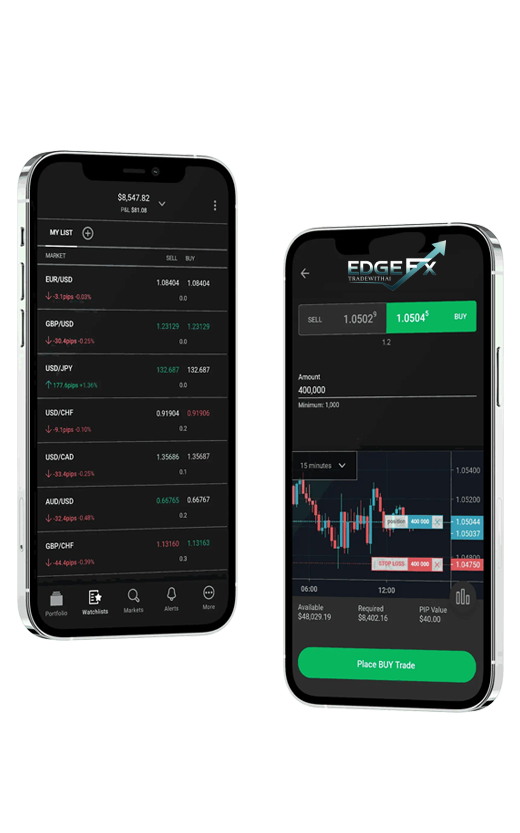
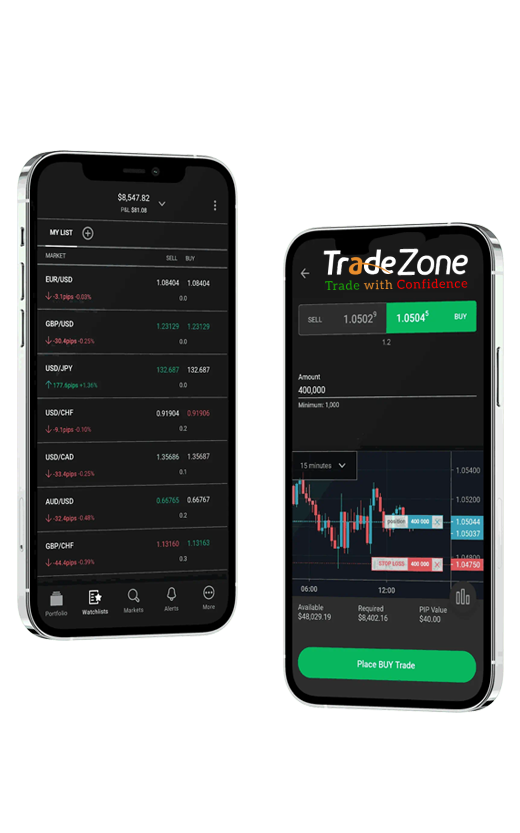
hhfgj

Changed region(s): [[0.6154, 0.2809, 0.8923, 0.3745]]

diff --git a/public/staticfiles/index.html b/public/staticfiles/index.html
@@ -5,7 +5,7 @@
     <meta charset="utf-8" />
     <meta http-equiv="X-UA-Compatible" content="IE=edge" />
     <meta name="viewport" content="width=device-width, initial-scale=1.0, maximum-scale=1.0, user-scalable=0" />
-    <title>Edge FX</title>
+    <title>Trade Zone</title>
 
     <!-- Fav Icon -->
     <link rel="icon" href="assets/images/fav.png" type="image/x-icon" />
@@ -149,7 +149,7 @@
 
                     <div class="upper-box">
                         <h2><span>Smart</span> Investing <br /><span>Starts Here</span></h2>
-                        <p>Join Edge FX and experience the future of effortless trading.</p>
+                        <p>Join Trade Zone and experience the future of effortless trading.</p>
                         <!-- <a onclick="parent.postMessage('goToLogin', '*')" class="theme-btn"><span>Login </span></a> -->
                     </div>
                     <div class="lower-box">
@@ -331,12 +331,12 @@
                         <div class="col-lg-6 col-md-12 col-sm-12 content-column">
                             <div class="content-box">
                                 <div class="sec-title">
-                                    <span class="sub-title">Welcome To Edge FX </span>
+                                    <span class="sub-title">Welcome To Trade Zone </span>
                                     <h2><span>About</span> Us</h2>
                                 </div>
                                 <div class="text-box">
                                     <p class="text-align: justify;">
-                                        Edge FX is a next-generation copy trading platform designed to make investing
+                                        Trade Zone is a next-generation copy trading platform designed to make investing
                                         simple, smart, and accessible for everyone. We empower individuals to
                                         automatically replicate the trades of experienced and successful traders,
                                         allowing even beginners to benefit from expert-level strategies. Our platform
@@ -376,10 +376,10 @@
                             </div>
                             <div class="text-box">
                                 <p style="text-align: justify;">
-                                    Join Edge FX and experience copy-trading with a leading traders community. Discover
+                                    Join Trade Zone and experience copy-trading with a leading traders community. Discover
                                     experienced leaders globally and automatically copy their positions. Whether you're
                                     a beginner looking to improve your trading skills or an experienced investor seeking
-                                    a straightforward solution, Edge FX is the place for you.
+                                    a straightforward solution, Trade Zone is the place for you.
                                 </p>
                             </div>
 
@@ -401,8 +401,8 @@
             <figure class="image-layer"><img src="assets/images/resource/chooseus-1.png" alt=""></figure>
             <div class="auto-container">
                 <div class="sec-title centred light">
-                    <span class="sub-title">Why Edge FX </span>
-                    <h2>Reason For <span>Choose Edge FX </span></h2>
+                    <span class="sub-title">Why Trade Zone </span>
+                    <h2>Reason For <span>Choose Trade Zone </span></h2>
                 </div>
                 <div class="inner-box">
                     <div class="left-column">
@@ -686,7 +686,7 @@
                         <div class="col-lg-3 col-md-6 col-sm-12 footer-column">
                             <div class="footer-widget apps-widget">
                                 <div class="widget-title">
-                                    <h5>Welcome To <span class="text-primary">Edge FX</span></h5>
+                                    <h5>Welcome To <span class="text-primary">Trade Zone</span></h5>
                                 </div>
                                 <div class="widget-content">
 
@@ -704,7 +704,7 @@
             <div class="footer-bottom-three centred">
                 <div class="auto-container">
                     <div class="copyright">
-                        <p>&copy; 2025 Edge FX. All Rights Reserved. </p>
+                        <p>&copy; 2025 Trade Zone. All Rights Reserved. </p>
                     </div>
                 </div>
             </div>
@@ -746,7 +746,7 @@
     <script>
         $(document).ready(function () {
             $.ajax({
-                url: "https://edgefx.uk/api/v1/get-image-galary",
+                url: "https://tradezone.tech/api/v1/get-image-galary",
                 method: "GET",
                 success: function (response) {
                     console.log("Gallery API Response:", response.result);
@@ -757,7 +757,7 @@
                         swiperWrapper.empty(); // Clear existing slides if any
 
                         banners.forEach(banner => {
-                            const imageUrl = "https://edgefx.uk" + banner.gal_image;
+                            const imageUrl = "https://tradezone.tech" + banner.gal_image;
                             const slide = `
                             <div class="swiper-slide">
                                 <div class="gallery_box">
@@ -832,7 +832,7 @@
             };
 
             try {
-                const response = await fetch("https://edgefx.uk/api/v1/contact-support", {
+                const response = await fetch("https://tradezone.tech/api/v1/contact-support", {
                     method: "POST",
                     headers: {
                         "Content-Type": "application/json",

diff --git a/src/authentication/login.js b/src/authentication/login.js
@@ -85,7 +85,7 @@ const Login = () => {
                 name="username"
                 value={formik.values.username}
                 onChange={formik.handleChange}
-                className="w-full p-3 mt-1 text-black placeholder:text-black border border-gray-300 rounded-lg focus:outline-none focus:ring-2 focus:ring-[#008eff] "
+                className="w-full p-3 mt-1 text-black placeholder:text-black border border-gray-300 rounded-lg focus:outline-none focus:ring-2 focus:ring-[#e98d2c] "
                 required
               />
             </div>
@@ -97,13 +97,13 @@ const Login = () => {
                 name="password"
                 value={formik.values.password}
                 onChange={formik.handleChange}
-                className="w-full p-3 mt-1 text-black placeholder:text-black border border-gray-300 rounded-lg focus:outline-none focus:ring-2 focus:ring-[#008eff] "
+                className="w-full p-3 mt-1 text-black placeholder:text-black border border-gray-300 rounded-lg focus:outline-none focus:ring-2 focus:ring-[#e98d2c] "
                 required
               />
             </div>
             <button
               type="submit"
-              className="w-full py-3 text-white border-2 border-white font-semibold rounded-full hover:bg-black bg-[#64b1b8]  focus:ring-[#128C7E]"
+              className="w-full py-3 text-white border-2 border-white font-semibold rounded-full hover:bg-black bg-[#e98d2c]  focus:ring-[#e98d2c]"
             >
               Login
             </button>
@@ -113,7 +113,7 @@ const Login = () => {
               onClick={() => navigate('/forgot')}>Forget Password ?</p>
           </div>
           <div className="mt-4 text-center">
-            <p className="text-sm text-blue-400">
+            <p className="text-sm text-orange-400">
               Don't have an account?{" "}
               <span
                 className="text-white cursor-pointer hover:underline"

diff --git a/public/staticfiles/assets/css/style.css b/public/staticfiles/assets/css/style.css
@@ -12,7 +12,7 @@
 :root{
   --theme-color: #fe5924;
   --theme-color-two: #26ba5e;
-  --theme-color-three: #64b1b8 !important;
+  --theme-color-three: #e98d2c !important;
   --secondary-color: #07171c;
   --text-color: #6e6e6e;
   --title-color: #1b1e31;
@@ -6671,7 +6671,7 @@ div#mCSB_1_container{
 }
 
 .banner-style-three .theme-btn{
-  background: #64b1b8;
+  background: #e98d2c;
   padding: 12px 40px;
 }
 
@@ -6713,7 +6713,7 @@ div#mCSB_1_container{
   position: relative;
   display: inline-block;
   font-size: 17px;
-  color: #64b1b8;
+  color: #e98d2c;
   font-weight: 600;
 }
 
@@ -6879,16 +6879,16 @@ div#mCSB_1_container{
   border-color: transparent;
 }
 
-.feature-block-one .inner-box:before{
-  position: absolute;
-  content: '';
-  background: -webkit-linear-gradient(-90deg, #64b1b8 0%, #027596 100%) !important;
-  width: 100%;
-  height: 0%;
-  left: 0px;
-  top: 0px;
-  border-radius: 5px;
-  transition: all 500ms ease;
+.feature-block-one .inner-box:before {
+    position: absolute;
+    content: '';
+    background: -webkit-linear-gradient(-90deg, #e98d2c 0%, #703a02 100%) !important;
+    width: 100%;
+    height: 0%;
+    left: 0px;
+    top: 0px;
+    border-radius: 5px;
+    transition: all 500ms ease;
 }
 
 .feature-block-one .inner-box:hover:before{
@@ -7369,7 +7369,7 @@ div#mCSB_1_container{
 }
 
 .ebook-section .content-box .btn-box .theme-btn{
-  background: #64b1b8;
+  background: #e98d2c;
   padding: 15px 37px;
 }
 
@@ -8121,7 +8121,7 @@ div#mCSB_1_container{
   font-size: 22px;
   line-height: 32px;
   font-weight: 600;
-  color: #64b1b8;
+  color: #e98d2c;
 }
 
 .footer-style-three .logo-widget{
@@ -12402,7 +12402,7 @@ label.error{
 
 
 .footer-style-three .widget-title h5 {
-    color: #64b1b8;
+    color: #e98d2c;
 }
 
 .footer-style-three .widget-title h5 span {

diff --git a/src/dashboard/pages/Ticket/ChatTicket.js b/src/dashboard/pages/Ticket/ChatTicket.js
@@ -90,7 +90,7 @@ const UserSupportChat = () => {
                                 key={ticket.id}
                                 onClick={() => setSelectedTicket(ticket)}
                                 className={`cursor-pointer p-3 mb-2 rounded-lg ${selectedTicket?.id === ticket.id
-                                    ? "bg-[#64b1b8] text-black"
+                                    ? "bg-[#e98d2c] text-black"
                                     : "bg-gray-700 hover:bg-gray-600"
                                     }`}
                             >
@@ -154,7 +154,7 @@ const UserSupportChat = () => {
                                                 }`}
                                         >
                                             <div
-                                                className={`max-w-xs p-3 rounded-lg ${reply.sender_type === "user" ? "bg-[#64b1b8] text-black" : "bg-gray-700"
+                                                className={`max-w-xs p-3 rounded-lg ${reply.sender_type === "user" ? "bg-[#e98d2c] text-black" : "bg-gray-700"
                                                     }`}
                                             >
                                                 <p>{reply.message}</p>
@@ -198,7 +198,7 @@ const UserSupportChat = () => {
 
                                     <button
                                         onClick={sendMessage}
-                                        className="px-4 py-2 bg-[#64b1b8] text-black rounded hover:bg-[#64b1b8] w-full sm:w-auto"
+                                        className="px-4 py-2 bg-[#e98d2c] text-black rounded hover:bg-[#e98d2c] w-full sm:w-auto"
                                     >
                                         Send
                                     </button>

diff --git a/src/dashboard/pages/Profile.js b/src/dashboard/pages/Profile.js
@@ -132,7 +132,7 @@ const Profile = () => {
 
                     <div className="bg-gray-800 p-3 rounded-lg shadow-lg">
                         <div className="flex flex-col items-center mb-6">
-                            <img src={logo} alt="Coin Icon" className="w-16 h-16 mb-3" />
+                            <img src={logo} alt="Coin Icon" className="w-20  mb-3" />
                             <h2 className="text-lg font-semibold text-white">General Account Information</h2>
                         </div>
 
@@ -170,7 +170,7 @@ const Profile = () => {
 
                     <div className="bg-gray-800 h-fit p-3 rounded-lg shadow-lg">
                         <div className="flex flex-col items-center mb-6">
-                            <img src={logo} alt="Coin Icon" className="w-16 h-16 mb-3" />
+                            <img src={logo} alt="Coin Icon" className="w-20 mb-3" />
                             <h2 className="text-lg font-semibold text-white">Password &  Address</h2>
                             <p className="text-gray-400 text-sm">Manage account settings securely</p>
                         </div>

diff --git a/src/authentication/Registration.js b/src/authentication/Registration.js
@@ -198,7 +198,7 @@ const Registration = () => {
             </div>
             <button
               type="submit"
-              className="w-full py-3 text-white border-2 border-border-color-green font-semibold rounded-full hover:bg-black bg-[#64b1b8] focus:outline-none focus:ring-2 focus:ring-[#128C7E] "
+              className="w-full py-3 text-white border-2 border-border-color-green font-semibold rounded-full hover:bg-black bg-[#e98d2c] focus:outline-none focus:ring-2 focus:ring-[#703f0a] "
               onClick={fk.handleSubmit}
             >
               Register

diff --git a/src/Shared/Loader.js b/src/Shared/Loader.js
@@ -15,7 +15,7 @@ const Loader = ({isLoading}) => {
           style: {
             backgroundColor: "transparent",
             backgroundImage:
-                  "linear-gradient(225deg, rgba(0, 170, 216, 1) 0%, rgba(20, 20, 20, 1) 61%)",
+                  "linear-gradient(225deg, #e98d2c 0%, rgba(20, 20, 20, 1) 61%)",
             boxShadow: "none",
           },
           className: `!h-[4rem] !w-[4rem] !flex !justify-center !items-center `,

diff --git a/src/dashboard/Dashboard.js b/src/dashboard/Dashboard.js
@@ -97,7 +97,7 @@ const Dashboard = () => {
 
         {/* News & Updates Tab */}
         <div className="bg-[#1e293b] px-4 py-2 flex">
-          <div className="bg-[#64b1b8] text-white px-4 py-1 rounded-t-md text-sm  flex font-semibold">
+          <div className="bg-[#e98d2c] text-white px-4 py-1 rounded-t-md text-sm  flex font-semibold">
             News & Updates
           </div>
           <div className="w-full">

diff --git a/tailwind.config.js b/tailwind.config.js
@@ -8,10 +8,10 @@ module.exports = {
         glow: "0 0 10px #FFD700",
       },
       colors: {
-        "gold-color": "#64b1b8",
+        "gold-color": "#e98d2c",
         "dark-color": "black",
         background: "#ffffff",
-        "text-color": "#64b1b8",
+        "text-color": "#e98d2c",
         "gray-color": "#f2f0ef",
         "border-color-green" : "8#64b1b"
       },

diff --git a/public/index.html b/public/index.html
@@ -35,7 +35,7 @@
       work correctly both with client-side routing and a non-root public URL.
       Learn how to configure a non-root public URL by running `npm run build`.
     -->
-    <title>EdgeFX</title>
+    <title>Trade Zone</title>
   </head>
   <body>
     <noscript>You need to enable JavaScript to run this app.</noscript>
